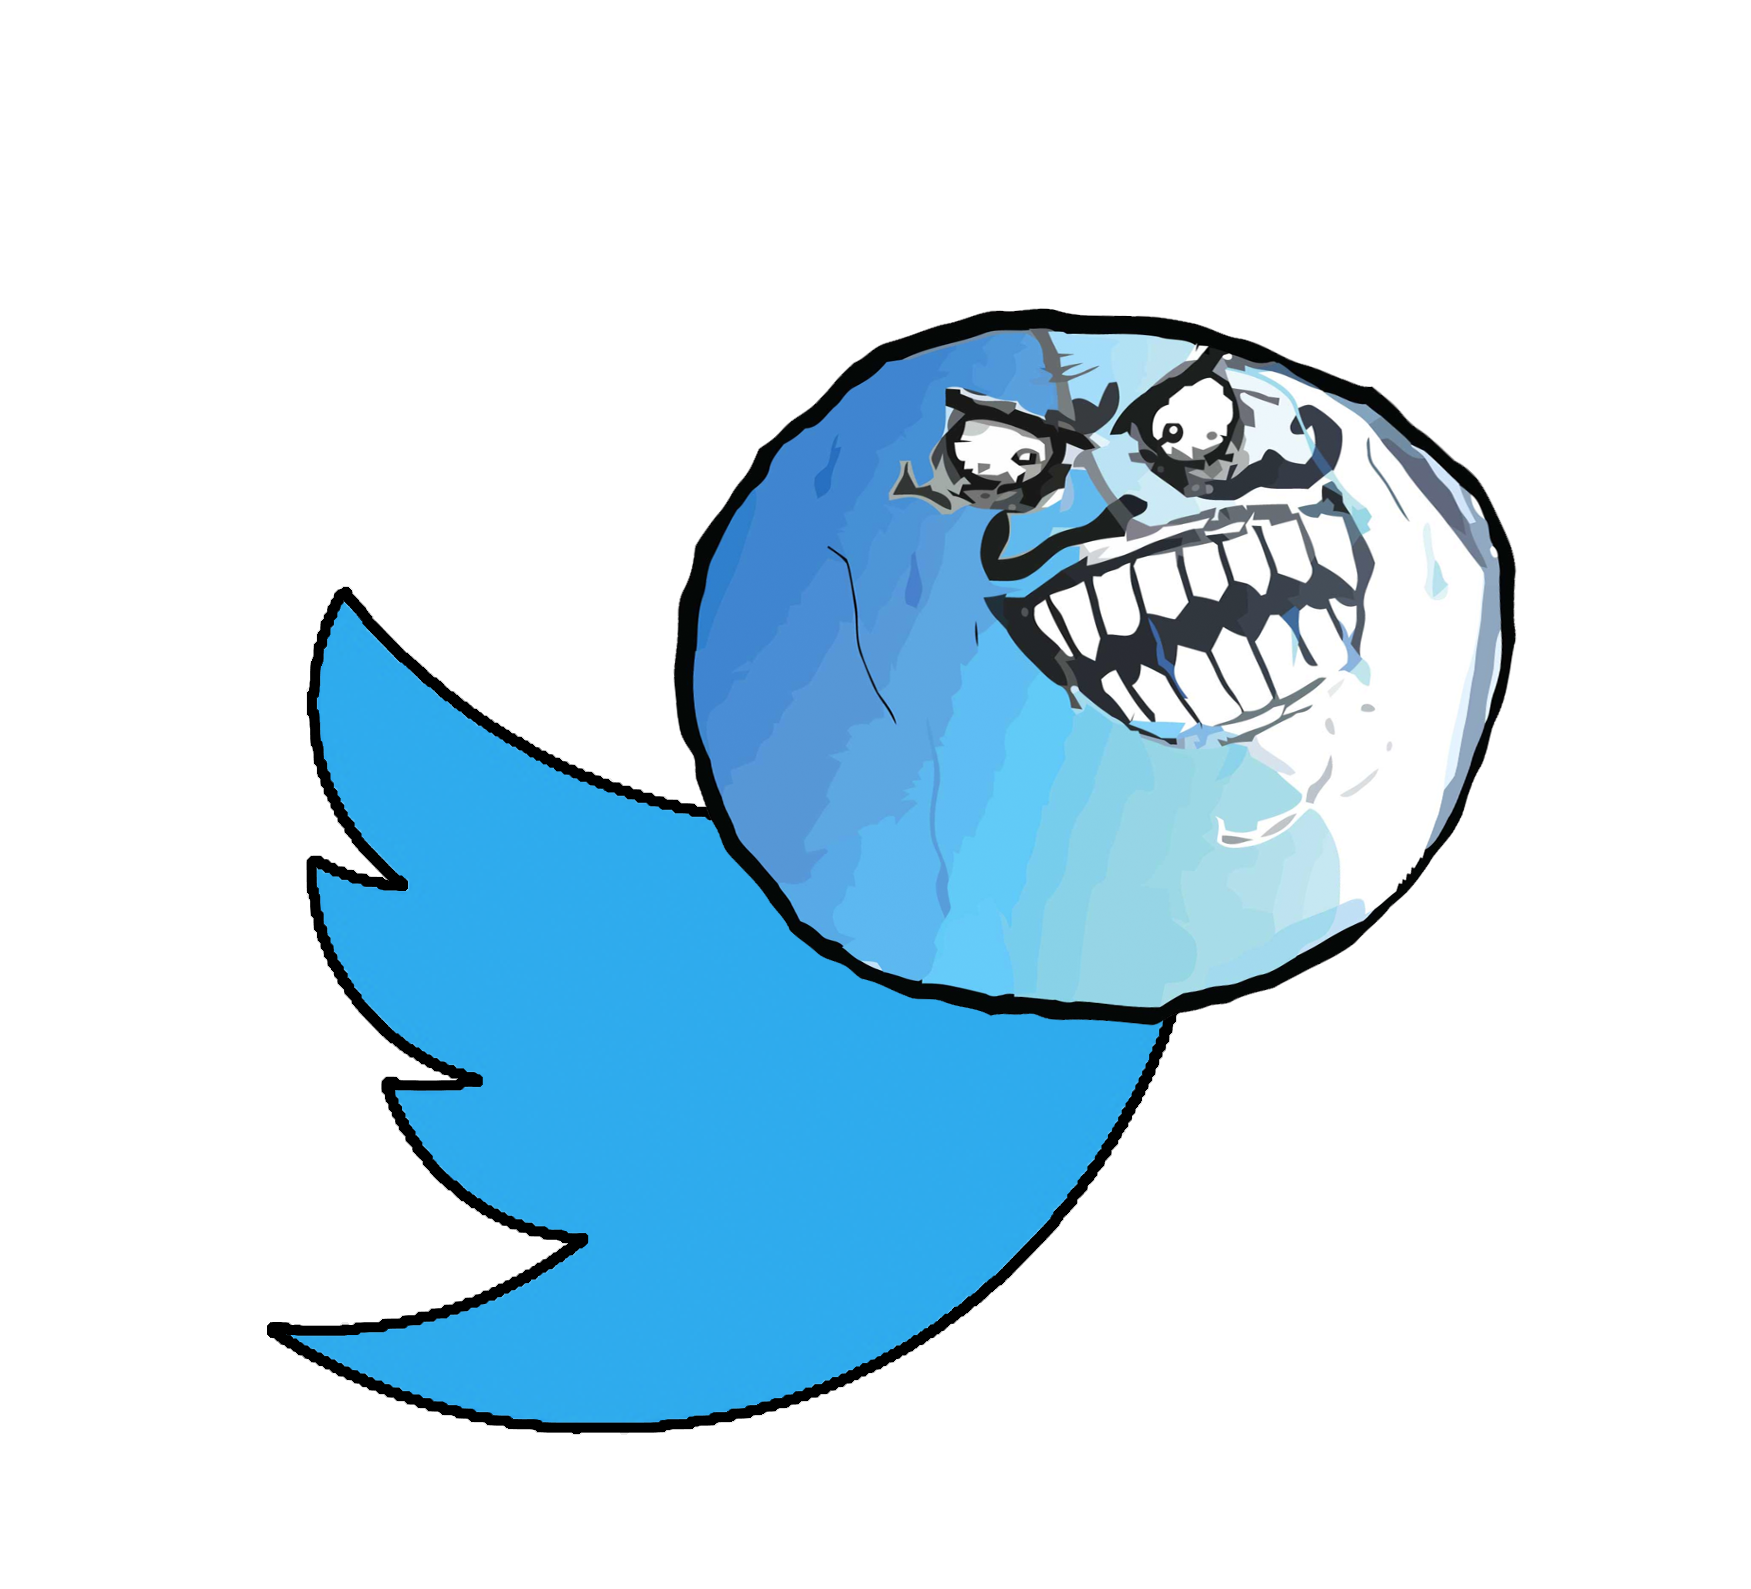
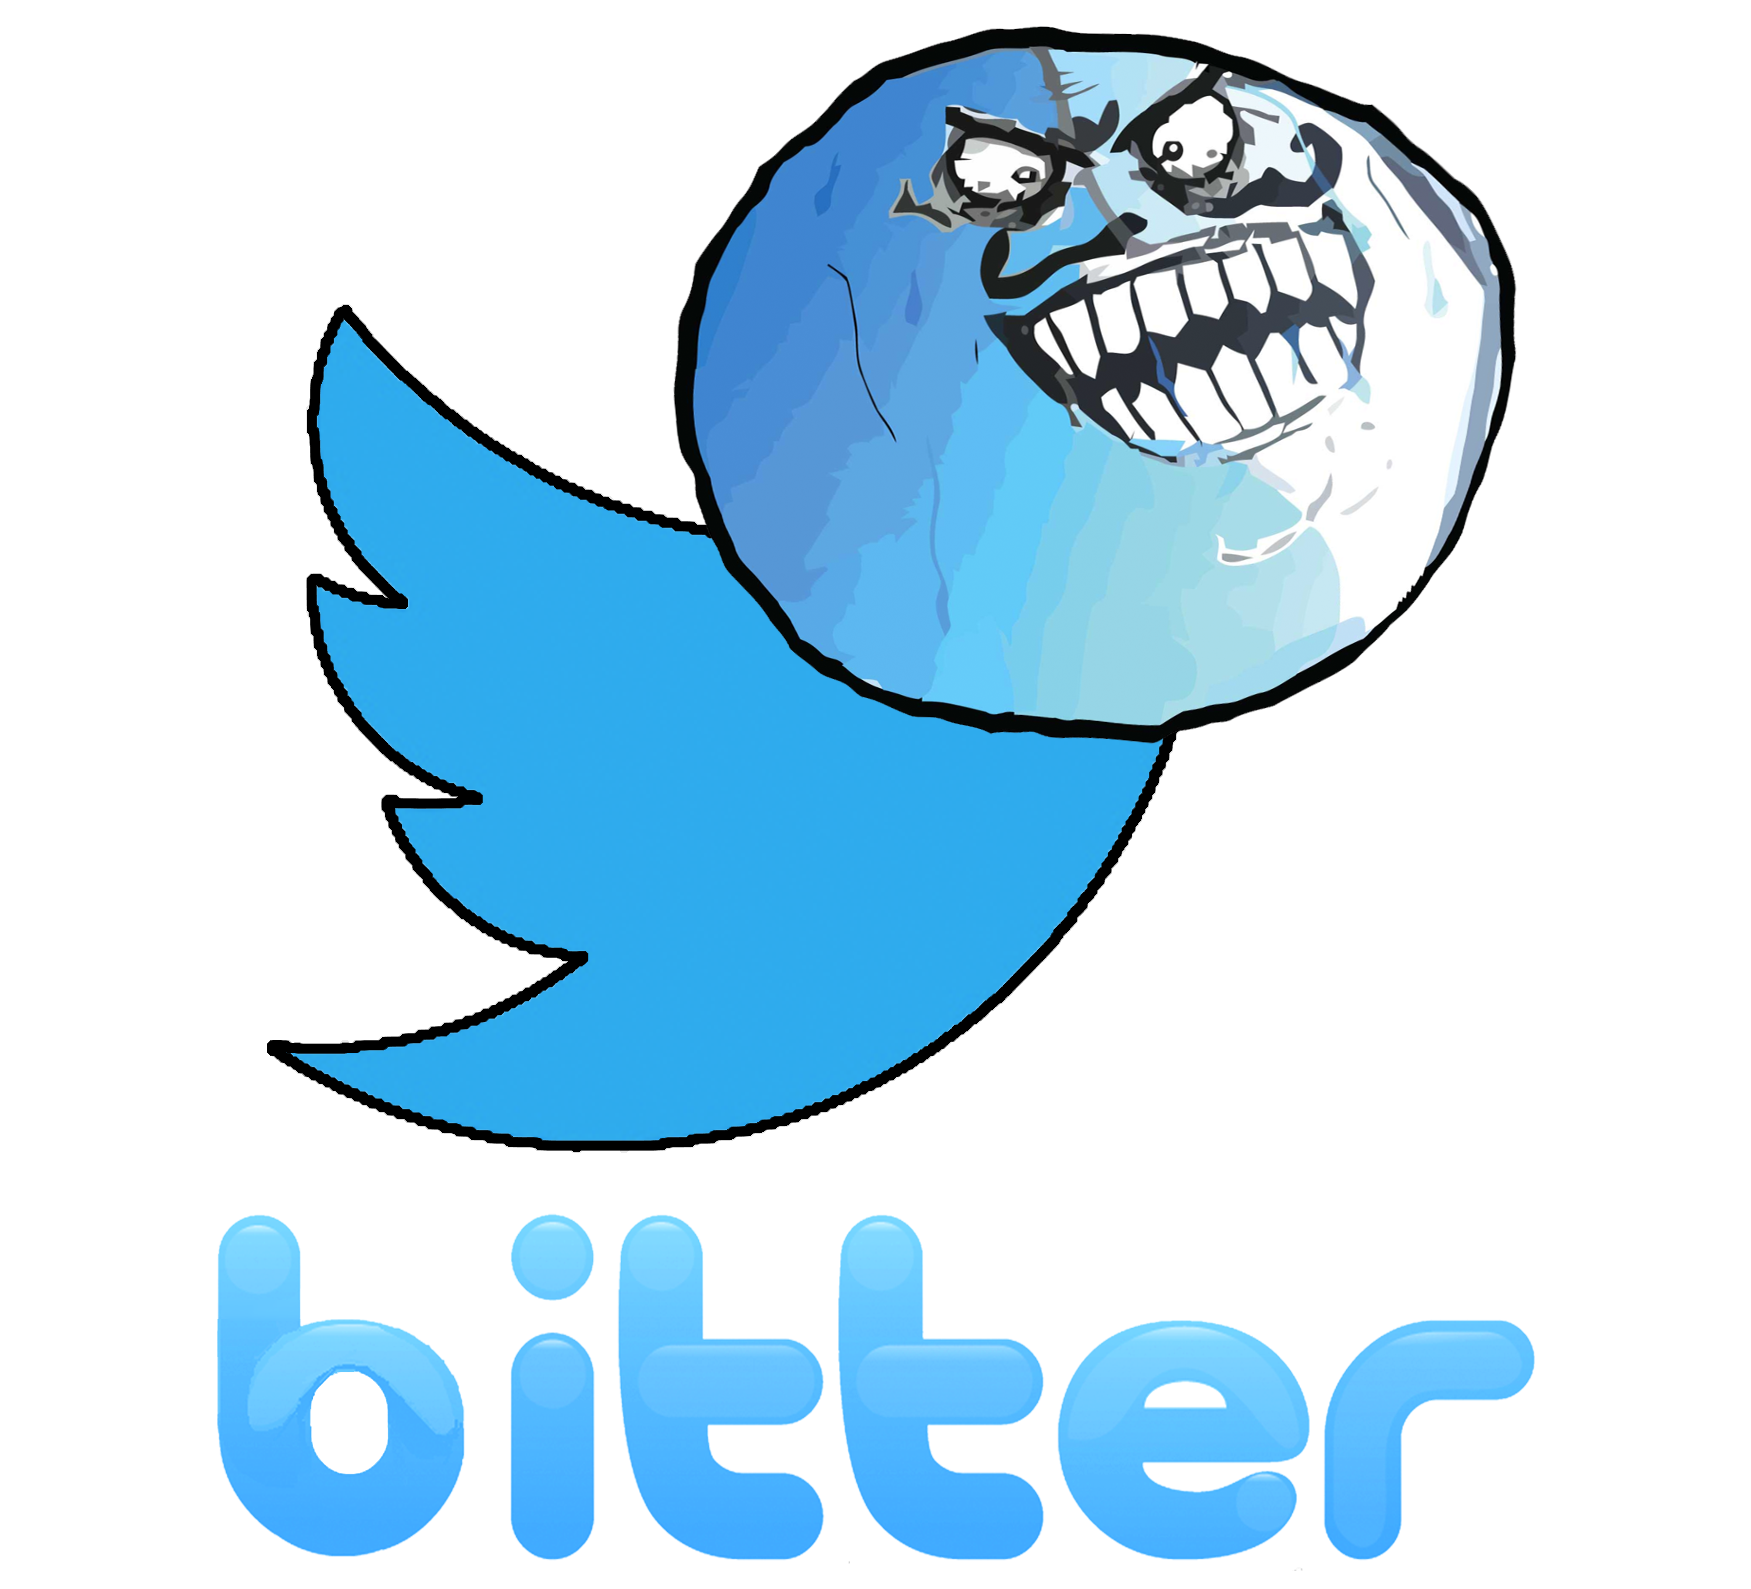
Add and update some images; minor content changes.

diff --git a/index.html b/index.html
@@ -226,10 +226,10 @@
 
             <p class="fragment"> <em>Later...</em> </p>
 
-            <ul>
-              <li class="fragment"> UTF-8 </li>
-              <li class="fragment"> UTF-16 </li>
-              <li class="fragment"> UTF-32 </li>
+            <ul class="fragment">
+              <li> UTF-8 </li>
+              <li> UTF-16 </li>
+              <li> UTF-32 </li>
             </ul>
 
             <aside class="notes" data-markdown>
@@ -238,10 +238,6 @@
               - At this point, things should seem odd.
               - Why does UTF-32 exist, and why does JavaScript use UTF-16?
             </aside>
-          </section>
-
-          <section>
-            <h2> It requires 21 bits to store any given Unicode code point </h2>
           </section>
         </section>
 
@@ -253,6 +249,14 @@
           <!-- Characters are: Graphic, used for formatting (LF, ZWNJ), for
           control (???), Private-use, Surrogate, Noncharacters, Reserved -->
 
+          <section>
+            BMP + Weird 💩
+          </section>
+
+          <section>
+            <h2> It requires 21 bits to store any given Unicode code point </h2>
+          </section>
+
           <section data-background="./img/some-astral-ass-shit.jpg">
             <h2 class="halo"> UTF-16 needs <strong>two code units</strong> to represent <strong>one astral code point</strong> </h2>
 
@@ -260,10 +264,6 @@
               - UTF-16 does this through *surrogate pairs*, but let's just leave
                 that discussion for another time...
             </aside>
-          </section>
-
-          <section>
-            BMP + Weird 💩
           </section>
         </section>
 
@@ -340,8 +340,15 @@ for (var i = 0; i &lt; str.length; i++) {
               similar to Twitter. Who would have thought? So, we're shifting
               gears; we're gonna be a restaurant review site instead! (that
               aren't any of those around, are there?)
-
             </aside>
+          </section>
+
+          <section>
+            <img src="./img/bitter-food.png" alt="bitter" class="no-border bitter-logo">
+
+            <p>
+              <small> (Thanks, <a href="http://kimber.github.io/">Kim</a>!) </small>
+            </p>
           </section>
 
         </section>
@@ -349,6 +356,18 @@ for (var i = 0; i &lt; str.length; i++) {
         <section>
           <section>
             <h1> Resources </h1>
+          </section>
+
+          <section>
+            <h2> Standards </h2>
+            <ul>
+              <li>
+                <a href="www.unicode.org/versions/Unicode8.0.0/">Unicode 8.0</a>
+              </li>
+              <li>
+                <a href="http://www.ecma-international.org/ecma-262/6.0/">ECMAScript 6</a>
+              </li>
+            </ul>
           </section>
 
           <section>
@@ -369,18 +388,6 @@ for (var i = 0; i &lt; str.length; i++) {
               </li>
               <li>
                 <a href="https://www.youtube.com/watch?v=3AtBE9BOvvk">Tom Scott: Real Life Emoji Keyboard!</a>
-              </li>
-            </ul>
-          </section>
-
-          <section>
-            <h2> Standards </h2>
-            <ul>
-              <li>
-                <a href="www.unicode.org/versions/Unicode8.0.0/">Unicode Standard 8.0</a>
-              </li>
-              <li>
-                <a href="http://www.ecma-international.org/ecma-262/6.0/">ECMAScript 6</a>
               </li>
             </ul>
           </section>
